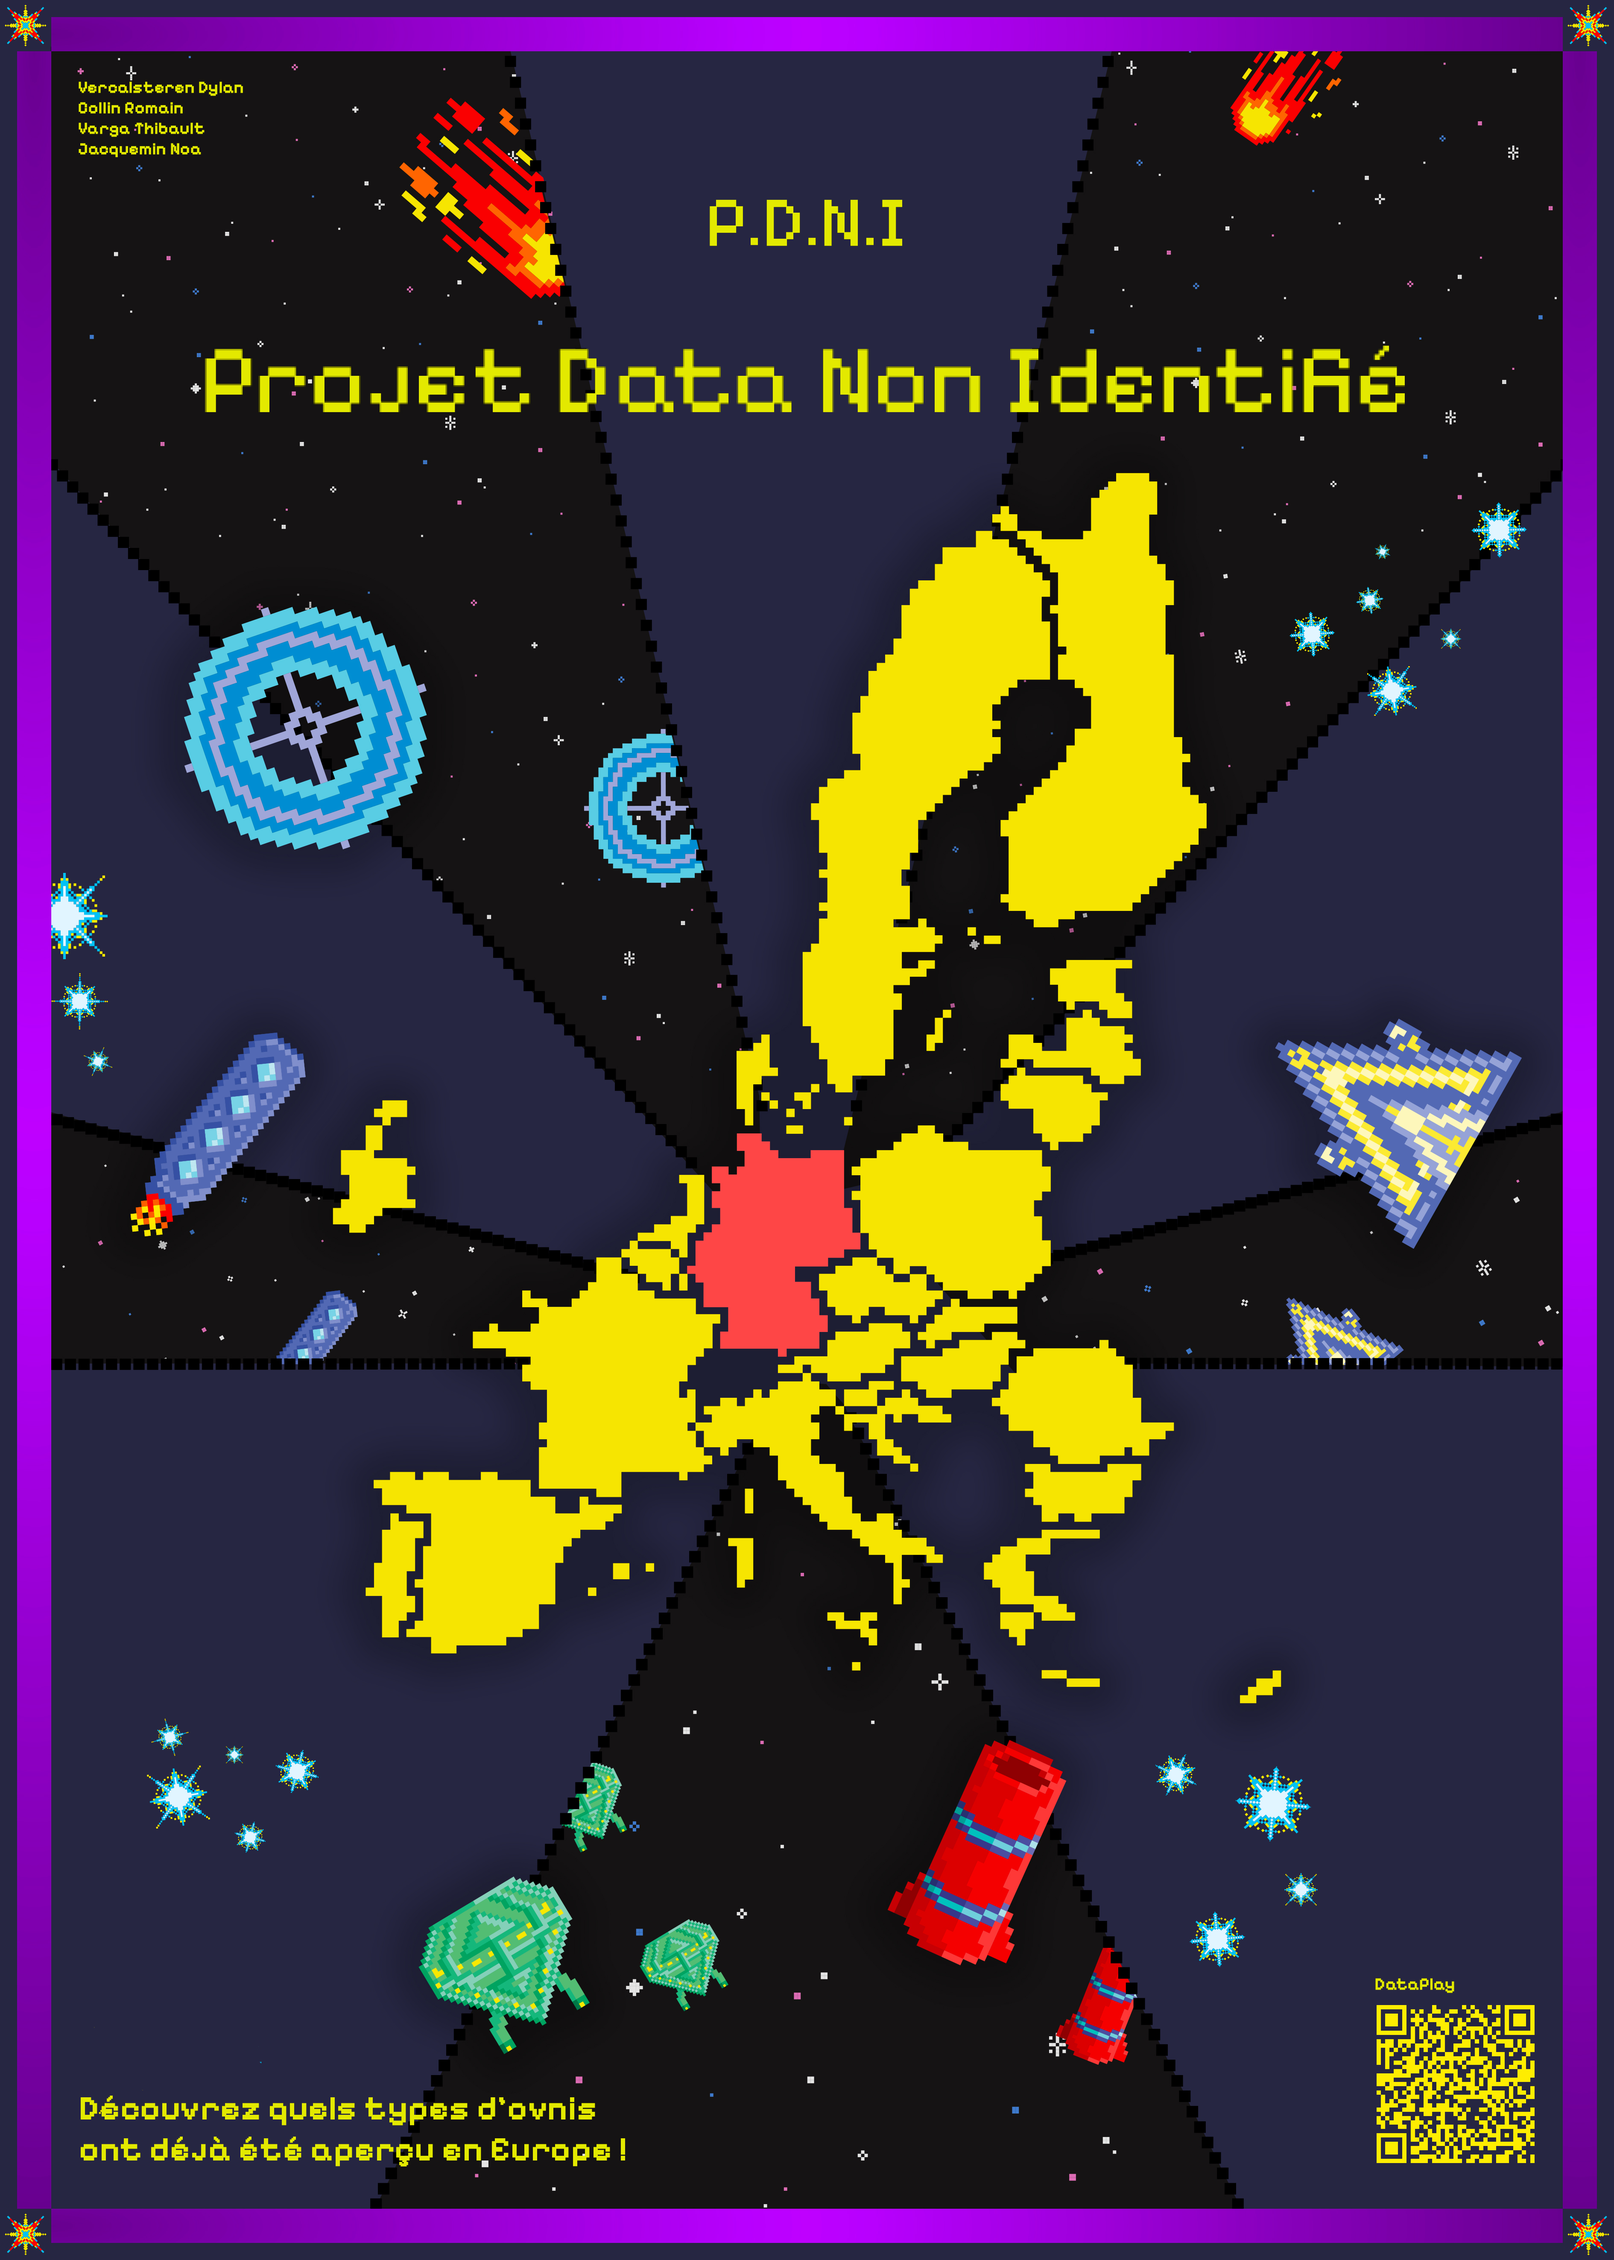
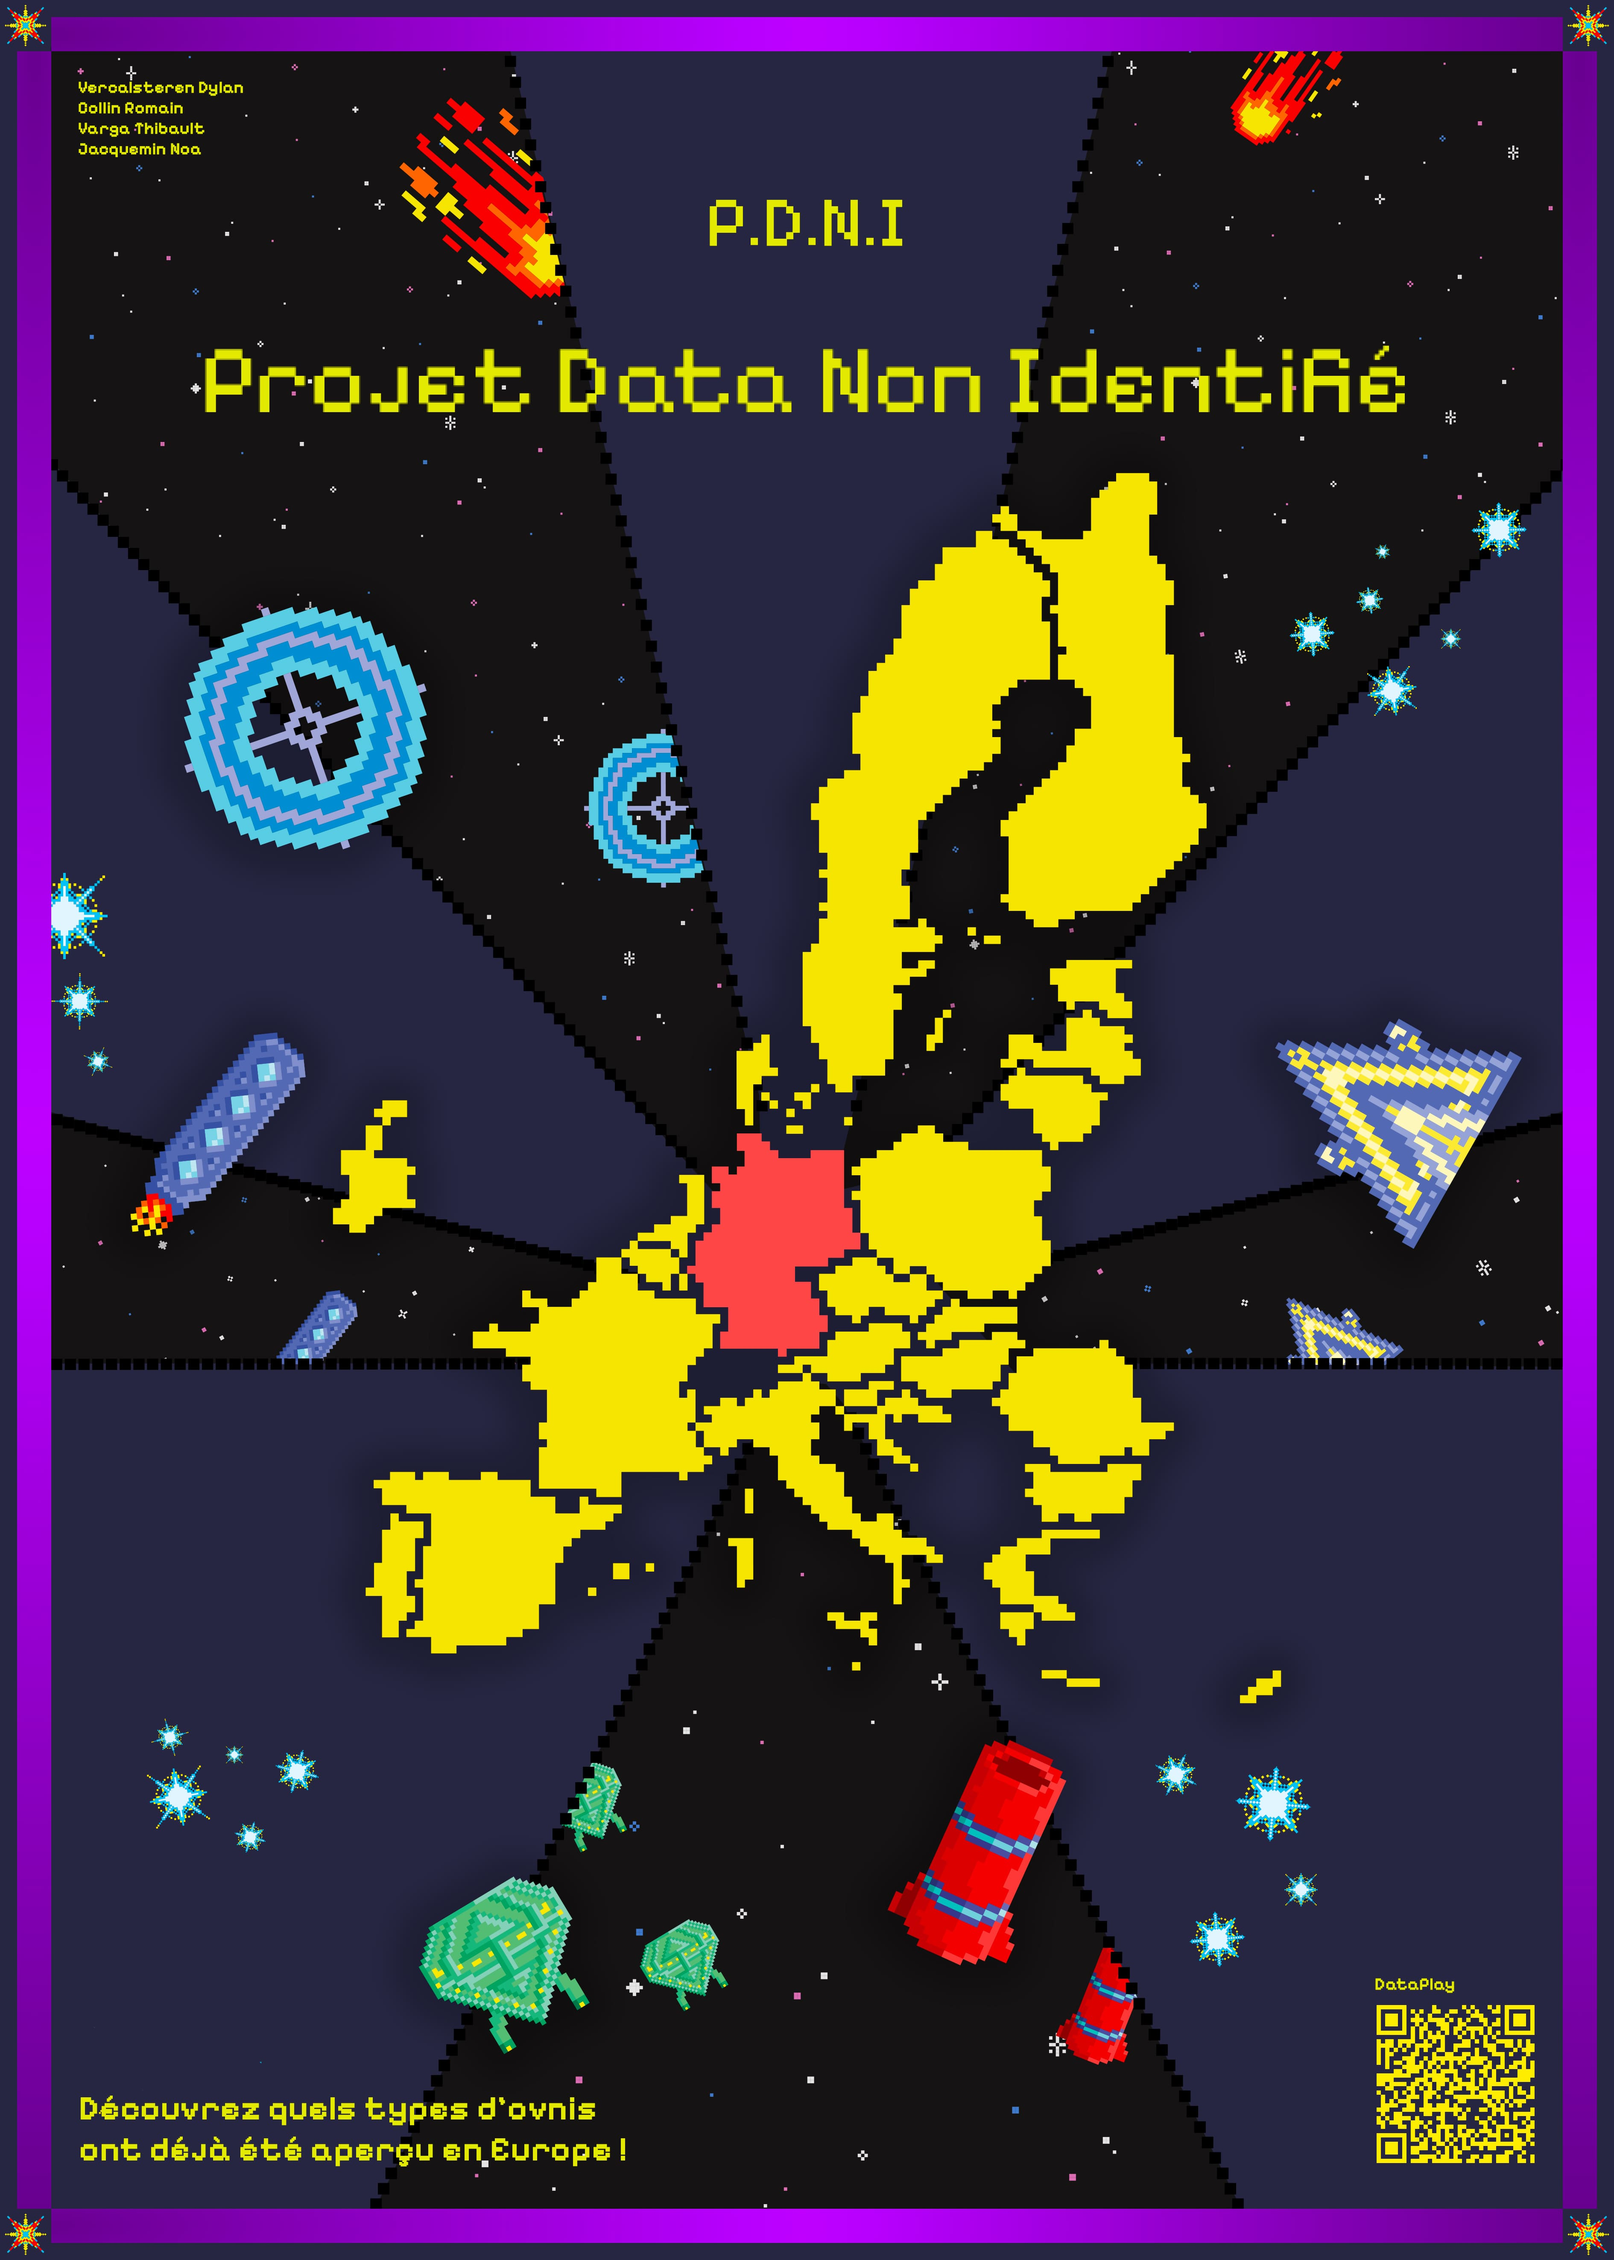
images retina

diff --git a/src/scripts/app.js b/src/scripts/app.js
@@ -1,78 +1,127 @@
 "use strict";
+import { gsap } from 'gsap';
+import ScrollTrigger from 'gsap/ScrollTrigger';
 
-// SYSTEM TABS
-document.addEventListener('DOMContentLoaded', function() {
-    let links = document.querySelectorAll(".projet__linktab");
+gsap.registerPlugin(ScrollTrigger);
 
-    links.forEach(link => {
-        link.addEventListener('click', (event) => {
-            event.preventDefault();
+    document.addEventListener('DOMContentLoaded', function() {
+        let links = document.querySelectorAll(".projet__linktab");
 
-            if (link.classList.contains("projet__linktab--active")) {
-                clearAll();
-                link.classList.remove("projet__linktab--active");
-                let contentId = link.getAttribute("href");
-                let content = document.querySelector(contentId);
-                content.classList.add("projet__hidden");
-            } else {
-                clearAll();
-                link.classList.add("projet__linktab--active");
-                let contentId = link.getAttribute("href");
-                let content = document.querySelector(contentId);
-                content.classList.remove("projet__hidden");
-            }
+        links.forEach(link => {
+            link.addEventListener('click', (event) => {
+                event.preventDefault();
+
+                if (link.classList.contains("projet__linktab--active")) {
+                    clearAll();
+                    link.classList.remove("projet__linktab--active");
+                    let contentId = link.getAttribute("href");
+                    let content = document.querySelector(contentId);
+                    content.classList.add("projet__hidden");
+                } else {
+                    clearAll();
+                    link.classList.add("projet__linktab--active");
+                    let contentId = link.getAttribute("href");
+                    let content = document.querySelector(contentId);
+                    content.classList.remove("projet__hidden");
+                }
+            });
+        });
+
+        function clearAll() {
+            let activeLinks = document.querySelectorAll(".projet__linktab");
+            activeLinks.forEach(activeLink => {
+                activeLink.classList.remove("projet__linktab--active");
+            });
+
+            let tabs = document.querySelectorAll(".projet__tabcontent");
+            tabs.forEach(tab => {
+                tab.classList.add("projet__hidden");
+            });
+        }
+
+        // CODE POUR HOVER PHOTOS PROJETS
+        let hoverLinks = document.querySelectorAll(".projet__copia, .projet__readimade, .projet__helloworld, .projet__decembre, .projet__rux, .projet__dataplay");
+        let imageContainer = document.querySelector(".projet__image-container");
+        let image = document.querySelector(".projet__image");
+
+        hoverLinks.forEach(link => {
+            link.addEventListener('mouseover', () => {
+                let imageUrl = link.getAttribute("data-image");
+                image.src = imageUrl;
+                imageContainer.style.display = "block";
+            });
+
+            link.addEventListener('mouseout', () => {
+                imageContainer.style.display = "none";
+            });
+
+            link.addEventListener('mousemove', (event) => {
+                imageContainer.style.top = (event.pageY + 20) + 'px';
+                imageContainer.style.left = (event.pageX + 20) + 'px';
+            });
+        });
+
+        // Scroll horizontal
+        const stickySections = [...document.querySelectorAll('.stage__sticky')];
+
+        window.addEventListener('scroll', () => {
+            stickySections.forEach(section => {
+                transform(section);
+            });
+        });
+
+        function transform(section) {
+            const offsetTop = section.parentElement.offsetTop;
+            const scrollSection = section.querySelector('.stage__scroll');
+
+            let percentage = ((window.scrollY - offsetTop) / window.innerHeight) * 100;
+            percentage = Math.max(0, Math.min(400, percentage));
+            scrollSection.style.transform = `translate3d(${-percentage}vw, 0, 0)`;
+        }
+
+        // Animation GSAP
+        const up = document.querySelectorAll('.aftereffects__edit2, .photoshop__posterbox, .aftereffects__edit');
+        up.forEach((element) => {
+            gsap.from(element, {
+                opacity: 0,
+                y: 150,
+                duration: 5,
+                scrollTrigger: {
+                    trigger: element,
+                    start: 'top 65%',
+                    end: 'bottom 100%',
+                    scrub: true
+                }
+            });
+        });
+
+        const right = document.querySelectorAll('.aftereffects__edit3');
+        right.forEach((element) => {
+            gsap.from(element, {
+                opacity: 0,
+                x: 150,
+                duration: 5,
+                scrollTrigger: {
+                    trigger: element,
+                    start: 'top 65%',
+                    end: 'bottom 100%',
+                    scrub: true
+                }
+            });
+        });
+
+        const left = document.querySelectorAll('.aftereffects__edit1, .aboutme__video2');
+        left.forEach((element) => {
+            gsap.from(element, {
+                opacity: 0,
+                x: -150,
+                duration: 5,
+                scrollTrigger: {
+                    trigger: element,
+                    start: 'top 65%',
+                    end: 'bottom 100%',
+                    scrub: true
+                }
+            });
         });
     });
-
-    function clearAll() {
-        let activeLinks = document.querySelectorAll(".projet__linktab");
-        activeLinks.forEach(activeLink => {
-            activeLink.classList.remove("projet__linktab--active");
-        });
-
-        let tabs = document.querySelectorAll(".projet__tabcontent");
-        tabs.forEach(tab => {
-            tab.classList.add("projet__hidden");
-        });
-    }
-
-    // Scroll horizontal
-    const stickySections = [...document.querySelectorAll('.stage__sticky')];
-
-    window.addEventListener('scroll', () => {
-        stickySections.forEach(section => {
-            transform(section);
-        });
-    });
-
-    function transform(section) {
-        const offsetTop = section.parentElement.offsetTop;
-        const scrollSection = section.querySelector('.stage__scroll');
-
-        let percentage = ((window.scrollY - offsetTop) / window.innerHeight) * 100;
-        percentage = Math.max(0, Math.min(400, percentage));
-        scrollSection.style.transform = `translate3d(${-percentage}vw, 0, 0)`;
-    }
-
-    // CODE POUR HOVER PHOTOS PROJETS
-    let hoverLinks = document.querySelectorAll(".projet__copia, .projet__readimade, .projet__helloworld, .projet__decembre, .projet__rux, .projet__dataplay");
-    let imageContainer = document.querySelector(".projet__image-container");
-    let image = document.querySelector(".projet__image");
-
-    hoverLinks.forEach(link => {
-        link.addEventListener('mouseover', () => {
-            let imageUrl = link.getAttribute("data-image");
-            image.src = imageUrl;
-            imageContainer.style.display = "block";
-        });
-
-        link.addEventListener('mouseout', () => {
-            imageContainer.style.display = "none";
-        });
-
-        link.addEventListener('mousemove', (event) => {
-            imageContainer.style.top = (event.pageY + 20) + 'px'; // Adjust position as needed
-            imageContainer.style.left = (event.pageX + 20) + 'px'; // Adjust position as needed
-        });
-    });
-});

diff --git a/src/styles/app.scss b/src/styles/app.scss
@@ -77,7 +77,7 @@ body{
         }
 
         &__logo{
-            margin: 6px 40px 0;
+            margin: 4px 40px 0;
             width: 45px;
             height: 45px;
         }
@@ -350,11 +350,6 @@ body{
 }
 
 // SECTION 3 -- PROJET //////////////////////////////////////////////////////
-.projet__width{
-    max-width: 1600px;
-    margin-left: auto;
-    margin-right: auto;
-}
 .projet{
 
     &__title{
@@ -377,6 +372,14 @@ body{
         color: #FFFFFF;
         letter-spacing: 1px;
         font-weight: 400;
+    }
+
+    &__tabcontent{
+
+        p{
+            font-size: 18px;
+            line-height: 150%;
+        }
     }
 
     &__projet{
@@ -444,11 +447,11 @@ body{
         &__linktab{
             font-size: 68px;
             line-height: 100%;
-            padding: 20px 0 12px;
+            padding: 20px 0;
         }
 
         &__projet{
-            margin: 30px 0 40px;
+            margin: 50px 0 40px;
             font-size: 30px;
         }
 

diff --git a/src/styles/app.css b/src/styles/app.css
@@ -68,7 +68,7 @@ body {
     padding: 0;
   }
   .header__logo {
-    margin: 6px 40px 0;
+    margin: 4px 40px 0;
     width: 45px;
     height: 45px;
   }
@@ -275,12 +275,6 @@ body {
     background: linear-gradient(to bottom, #28405C, #4C606B);
   }
 }
-.projet__width {
-  max-width: 1600px;
-  margin-left: auto;
-  margin-right: auto;
-}
-
 .projet__title {
   margin-bottom: 36px;
   font-family: "Bebas Neue", sans-serif;
@@ -300,6 +294,10 @@ body {
   color: #FFFFFF;
   letter-spacing: 1px;
   font-weight: 400;
+}
+.projet__tabcontent p {
+  font-size: 18px;
+  line-height: 150%;
 }
 .projet__projet {
   display: block;
@@ -351,10 +349,10 @@ body {
   .projet__linktab {
     font-size: 68px;
     line-height: 100%;
-    padding: 20px 0 12px;
+    padding: 20px 0;
   }
   .projet__projet {
-    margin: 30px 0 40px;
+    margin: 50px 0 40px;
     font-size: 30px;
   }
   .projet__tabcontent :nth-child(1) {

diff --git a/src/index.html b/src/index.html
@@ -338,7 +338,12 @@
             </p>
           </div>
           <div class="photoshop__posterbox">
-            <img class="photoshop__poster" src="assets/images/poster.jpg" alt="Le poster de mon projet dataplay">
+            <img class="photoshop__poster" src="assets/images/poster@1x.jpg"
+            alt="Le poster de mon projet dataplay"
+            srcset="assets/images/poster@1x.jpg 1x,
+                    assets/images/poster@2x.jpg 2x"
+            loading="lazy"
+            decoding="async">
           </div>
         </div>
       </section>
